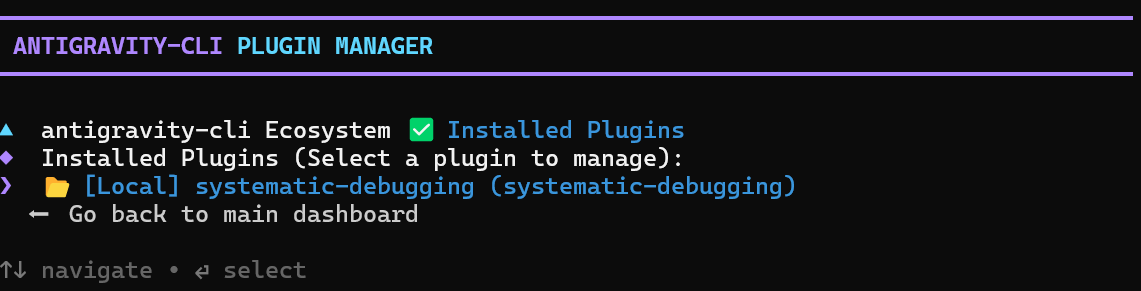
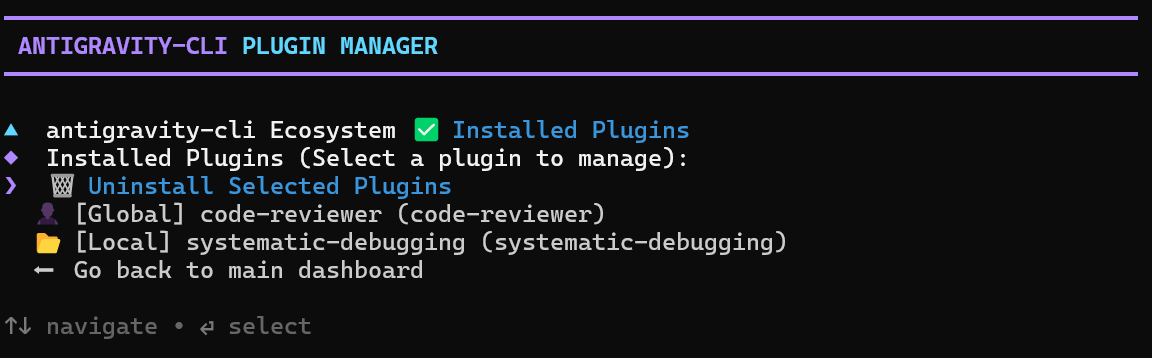
docs: refresh screenshots and rewrite intro
Replace the four old screenshots with five new ones reflecting the
v3.x dashboard (309 skills, category picker, source manager) and
rewrite the intro paragraph after an avoid-ai-writing audit.

Image changes
-------------
- images/main_menu.png         (replaced; now shows "Explore all 309 plugins")
- images/browse_categories.png (new; the 16-category picker with counts)
- images/search_plugins.png    (replaced; shows search-as-you-type)
- images/installed_plugins.png (replaced; shows Global/Local scope labels)
- images/manage_sources.png    (new; the source manager listing all 13 repos)

Intro rewrite
-------------
Cut AI-writing tells: "empowers", "seamlessly", "comprehensive ecosystem",
"leverage", "harness", "navigate", "robust", "Whether you're X or Y",
"makes skill discovery effortless". Replaced with a concrete four-action
description of the dashboard that matches what the screenshots show.

diff --git a/README.md b/README.md
@@ -10,7 +10,7 @@
   <a href="https://www.npmjs.com/package/@beidawuli/antigravity-plugin-manager"><img src="https://img.shields.io/badge/npm-v3.2.1-blue.svg" alt="npm version"></a>
 </p>
 
-`ag-plugin` is a CLI plugin manager for the `antigravity-cli` toolchain. It indexes 309 agent skills across 16 categories, pulling from 13 upstream repositories: Anthropic's official skills, K-Dense's scientific skills, Matt Pocock's skills, obra's superpowers, PatrickJS's awesome-cursorrules, addyosmani's agent-skills, EveryInc's compound-engineering-plugin, quodsoler's unreal-engine-skills, wshobson's agents, TerminalSkills/skills, alirezarezvani's claude-skills, sickn33's antigravity-awesome-skills, and the local plugins shipped with this repo. All content is human-authored and lives upstream. This tool handles discovery, search, and install.
+`ag-plugin` is a CLI plugin manager for `antigravity-cli`. It indexes 309 agent skills across 16 categories from 13 public open-source repositories. The dashboard has four actions: browse by category, fuzzy-search by keyword, list and uninstall what you have, and add or sync upstream sources. Skill content stays at its upstream source; the manager indexes it and routes installs.
 
 ## Prerequisites
 
@@ -31,19 +31,25 @@ On first run, the tool clones each enabled source repo into `~/.antigravity/cach
 
 ## Interface
 
+The dashboard is the entry point. The footer line shows the current catalog size.
+
 ![Main Menu](images/main_menu.png)
 
-**Browse by category** scopes the list to one of 16 categories. From there, "Install all N plugins" grabs the whole category in one go, or you can pick individually with the checkbox.
+**Browse by category** scopes the list to one of 16 categories. Each entry shows the count of skills it contains so you can size the pick before opening it.
 
-![Browse Plugins](images/browse_plugins.png)
+![Browse by Category](images/browse_categories.png)
 
-**Search** fuzzy-matches across name, description, and skill ID.
+**Search** runs a fuzzy match across name, description, and skill ID as you type. Results are ranked, with the description preview shown inline.
 
 ![Search Plugins](images/search_plugins.png)
 
-**Installed plugins** lists everything in your user-global (`~/.antigravity/plugins/`) and project-local (`./.antigravity/plugins/`) scopes.
+**Installed Plugins** lists what you've installed in either scope, with `[Global]` (`~/.antigravity/plugins/`) and `[Local]` (`./.antigravity/plugins/`) labels. Pick a plugin to uninstall it.
 
 ![Installed Plugins](images/installed_plugins.png)
+
+**Manage Skill Sources** lists every upstream repository, its enable state, and its URL. From this view you can sync (clone or pull the latest from each enabled source and rebuild the registry), toggle a source, or add a custom Git URL.
+
+![Manage Sources](images/manage_sources.png)
 
 ## What's inside (v3.2.1)
 
